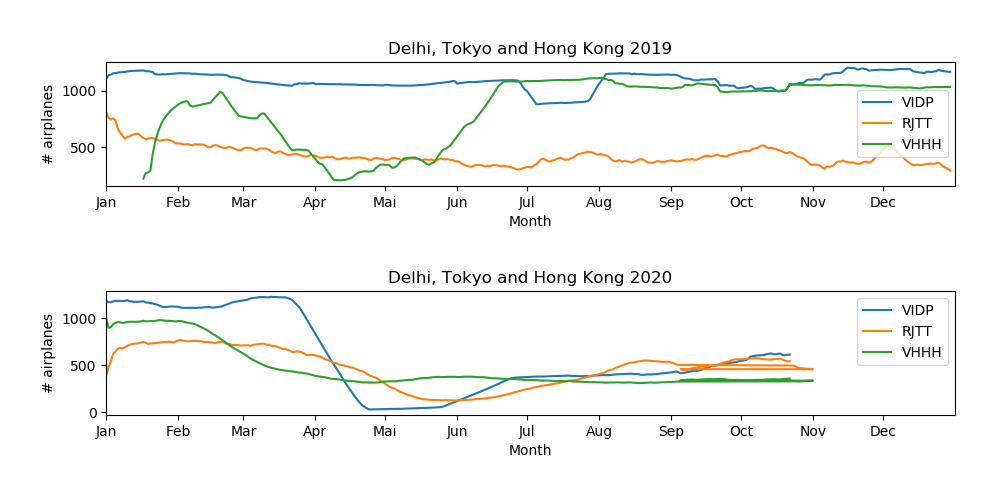
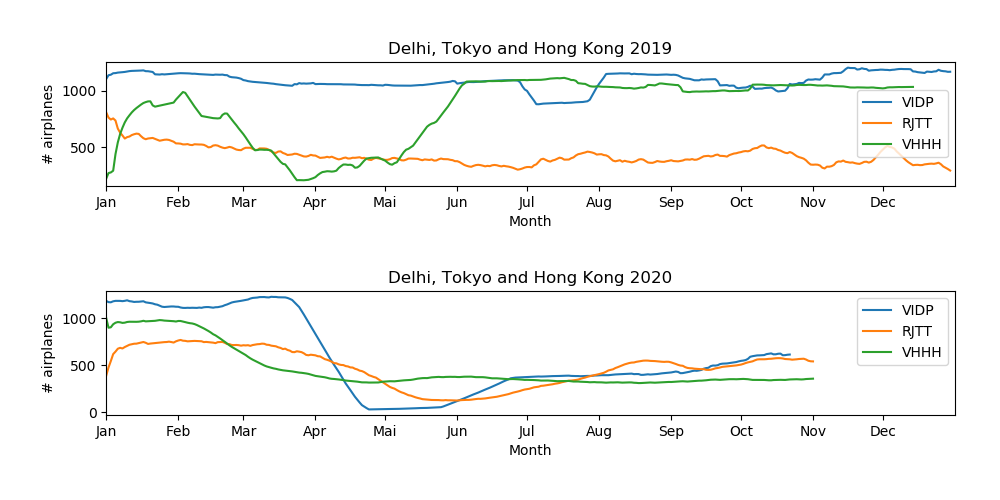
Fixed weird Asia plot

diff --git a/flights/plotRollingAverage.py b/flights/plotRollingAverage.py
@@ -40,9 +40,8 @@ def plotrollingAvg(airpors_region, airportnames, region, year, rollig):
 
     months = ["Jan", "Feb", "Mar", "Apr", "Mai", "Jun", "Jul", "Aug", "Sep", "Oct", "Nov", "Dec"]
     for index, df in enumerate(airpors_region):
-        col = df.Date.to_numpy()
         values = df[rollig + airportnames[index] + " " +  year].to_numpy()
-        plt.plot(col , values , label =airportnames[index])
+        plt.plot(values , label =airportnames[index])
 
     plt.xticks([0, 31, 59, 90, 120, 151, 181, 212, 243, 273, 304, 334], months )
     plt.xlim(0,365)
